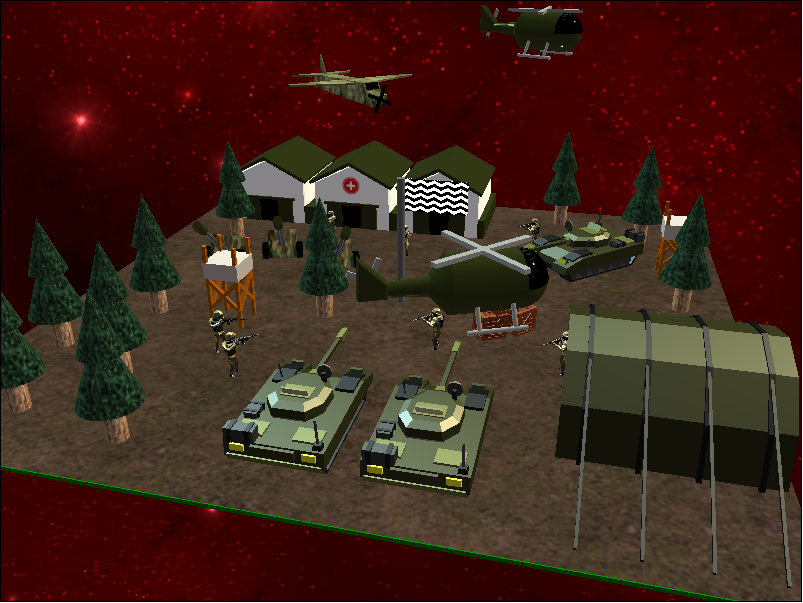
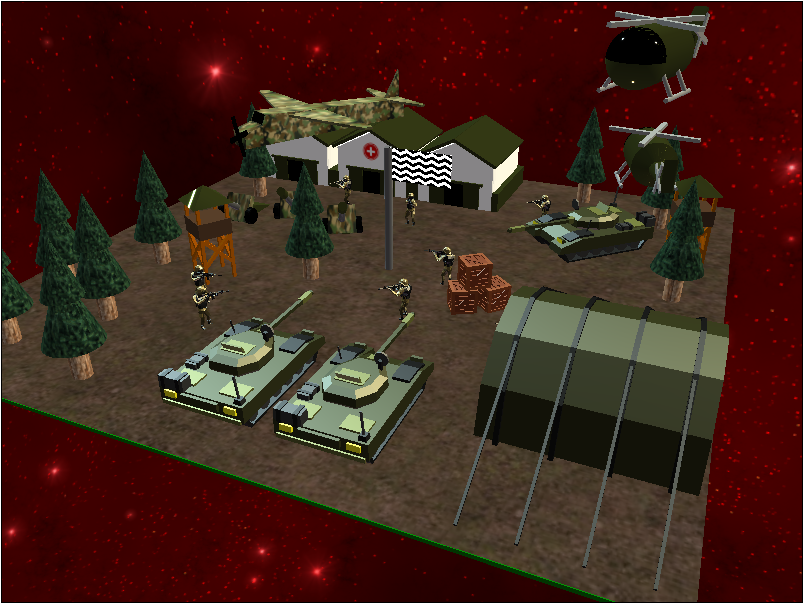
Updated with small fixes

diff --git a/for_students/watchtower.js b/for_students/watchtower.js
@@ -1,0 +1,63 @@
+import { GrObject } from "../libs/CS559-Framework/GrObject.js";
+import * as T from "../libs/CS559-Three/build/three.module.js";
+
+function convertAngle(degree) {
+    return degree * Math.PI/180;
+}
+
+export class WatchTower extends GrObject {
+    constructor() {
+        let group = new T.Group();
+
+        let leg_mat = new T.MeshStandardMaterial({
+            color: 0x964b00,
+            roughness: 0.2,
+            metalness: 0.0
+        })
+        let stick = new T.Mesh(new T.BoxGeometry(0.2,5,0.2), leg_mat);
+        stick.translateY(1.5);
+        group.add(stick);
+
+        let rstick = new T.Mesh(new T.BoxGeometry(0.2,2.5,0.2), leg_mat);
+        stick.add(rstick);
+        rstick.translateY(-.5);
+        rstick.translateZ(0.9);
+        rstick.rotateX(convertAngle(45));
+        let rstick2 = rstick.clone();
+        rstick2.rotateX(convertAngle(90));
+        stick.add(rstick2);
+        let stick2 = stick.clone();
+        group.add(stick2);
+        stick2.rotateY(convertAngle(90));
+        stick2.translateX(-1.8);
+        let stick3 = stick2.clone();
+        group.add(stick3);
+        stick3.rotateY(convertAngle(90));
+        stick3.translateX(-1.8);
+        let stick4 = stick3.clone();
+        group.add(stick4);
+        stick4.rotateY(convertAngle(90));
+        stick4.translateX(-1.8);
+
+        let box_mat = new T.MeshStandardMaterial({
+            color: 0x4e3524,
+            roughness: 0.2,
+            metalness: 0.2
+        })
+        let box = new T.Mesh(new T.BoxGeometry(2.1,1,2.1), box_mat);
+        group.add(box);
+        box.position.set(0.9,2.5,0.9);
+
+        let pyramid_mat = new T.MeshStandardMaterial({
+            color: 0x4b5320,
+            metalness: 0.5,
+            roughness: 0.0,
+        })
+        let pyramid = new T.Mesh(new T.ConeGeometry(1.75,1,4), pyramid_mat);
+        group.add(pyramid);
+        pyramid.rotateY(convertAngle(45));
+        pyramid.position.set(0.9,4.5,0.9);
+
+        super("Watch tower", group);
+    }
+}

diff --git a/for_students/flag.js b/for_students/flag.js
@@ -32,53 +32,4 @@ export class Flag extends GrObject {
         
         this.leaf = leaf;
     }
-
-    stepWorld(delta) {}
-}
-
-export class WatchTower extends GrObject {
-    constructor() {
-        let group = new T.Group();
-
-        let leg_mat = new T.MeshStandardMaterial({
-            color: 0x964b00,
-            roughness: 0.2,
-            metalness: 0.0
-        })
-        let stick = new T.Mesh(new T.BoxGeometry(0.2,5,0.2), leg_mat);
-        stick.translateY(1.5);
-        group.add(stick);
-
-        let rstick = new T.Mesh(new T.BoxGeometry(0.2,2.5,0.2), leg_mat);
-        stick.add(rstick);
-        rstick.translateY(-.5);
-        rstick.translateZ(0.9);
-        rstick.rotateX(convertAngle(45));
-        let rstick2 = rstick.clone();
-        rstick2.rotateX(convertAngle(90));
-        stick.add(rstick2);
-        let stick2 = stick.clone();
-        group.add(stick2);
-        stick2.rotateY(convertAngle(90));
-        stick2.translateX(-1.8);
-        let stick3 = stick2.clone();
-        group.add(stick3);
-        stick3.rotateY(convertAngle(90));
-        stick3.translateX(-1.8);
-        let stick4 = stick3.clone();
-        group.add(stick4);
-        stick4.rotateY(convertAngle(90));
-        stick4.translateX(-1.8);
-
-        let box_mat = new T.MeshStandardMaterial({
-            color: 0xd8cbc4,
-            roughness: 0.2,
-            metalness: 0.2
-        })
-        let box = new T.Mesh(new T.BoxGeometry(2.1,1,2.1), box_mat);
-        group.add(box);
-        box.position.set(0.9,2.5,0.9);
-
-        super("Watch tower", group);
-    }
 }

diff --git a/for_students/final-grtown.js b/for_students/final-grtown.js
@@ -29,7 +29,7 @@ import { Medhouse } from "./medhouse.js";
 import { Flag } from "./flag.js";
 import { ConeTree } from "./conetree.js"
 import { Crate } from "./crate.js";
-import { WatchTower } from "./flag.js";
+import { WatchTower } from "./watchtower.js";
 import { Ground } from "./groundplane.js";
 
 function convertAngle(degree) {
@@ -181,9 +181,11 @@ crate3.objects[0].rotateY(convertAngle(40));
 let tower1 = new WatchTower();
 world.add(tower1);
 tower1.setPos(16,1,-9);
+tower1.objects[0].rotateY(convertAngle(20));
 let tower2 = new WatchTower();
 world.add(tower2);
 tower2.setPos(-10,1,4)
+tower2.objects[0].rotateY(convertAngle(-30));
 
 // while making your objects, be sure to identify some of them as "highlighted"
 
